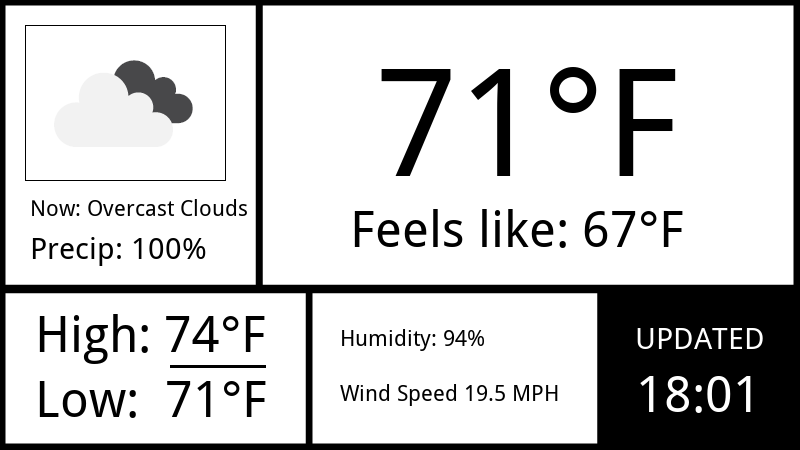
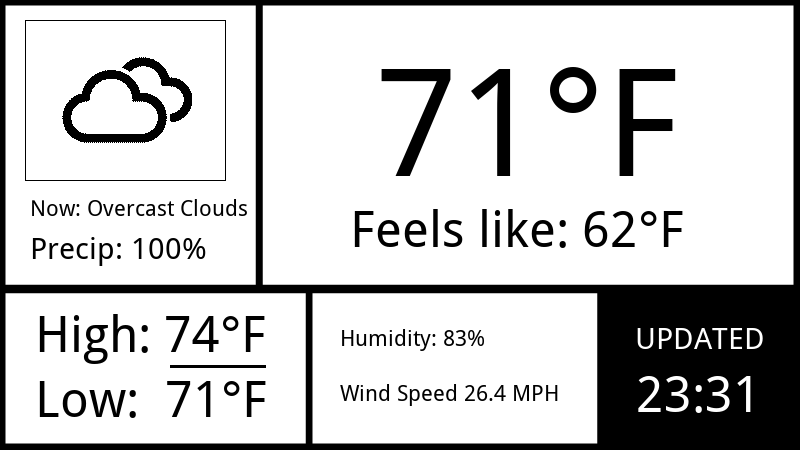
1.1 update
Added new icons

diff --git a/weather.py b/weather.py
@@ -1,10 +1,10 @@
 # This little program is for the Waveshare 7.5
 # inch Version 2 black and white only epaper display
 # It uses OpenWeatherMap API to display weather info
-
 import sys
 import os
 picdir = os.path.join(os.path.dirname(os.path.realpath(__file__)), 'pic')
+icondir = os.path.join(picdir, 'icon')
 fontdir = os.path.join(os.path.dirname(os.path.realpath(__file__)), 'font')
 
 # Search lib folder for display driver modules
@@ -47,25 +47,26 @@ grey = 'rgb(235,235,235)'
 
 # Initiate and clear screen
 epd.init()
-epd.Clear()
+#epd.Clear()
 
-API_KEY = '*****KEY HERE******'
-LOCATION = '******Name of Location*****'
-LATITUDE = '******'
-LONGITUDE = '*********'
+API_KEY = '******API KEY*******'
+LOCATION = '*******'
+LATITUDE = '*******'
+LONGITUDE = '*******'
 UNITS = 'imperial'
 BASE_URL = 'http://api.openweathermap.org/data/2.5/onecall?' 
 URL = BASE_URL + 'lat=' + LATITUDE + '&lon=' + LONGITUDE + '&units=' + UNITS +'&appid=' + API_KEY
 
 while True:
     # HTTP request
+    print('Getting new weather info.')
     response = requests.get(URL)
     # check status of code of request
     
     error = None
     while error == None:
         if response.status_code == 200:
-            print('Connection to Open Weather successful')
+            print('Connection to Open Weather successful.')
             # get data in jason format
             data = response.json()
             
@@ -84,7 +85,7 @@ while True:
             report = weather[0]['description']
             # get icon url
             icon_code = weather[0]['icon']
-            icon_URL = 'http://openweathermap.org/img/wn/'+ icon_code +'@4x.png'
+            #icon_URL = 'http://openweathermap.org/img/wn/'+ icon_code +'@4x.png'
             
             # get daily dict block
             daily = data['daily']
@@ -148,14 +149,14 @@ while True:
     draw = ImageDraw.Draw(template)
     
     # Draw top left box
-    ## First thing is to place the icon image
-    ### Place a grey rectangle
-    draw.rectangle((25, 25, 225, 180), outline=black)
-    ### Place the image
-    response = requests.get(icon_URL)
-    icon_image = Image.open(BytesIO(response.content))
-    template.paste(icon_image, (23, 3), mask=icon_image)
-    # Next is drawing the text
+    ## Open icon file
+    icon_file = icon_code + '.png' 
+    icon_image = Image.open(os.path.join(icondir, icon_file))
+    ### Paste the image
+    template.paste(icon_image, (40, 15))
+    ## Place a black rectangle outline
+    draw.rectangle((25, 20, 225, 180), outline=black)
+    ## Draw text
     draw.text((30, 195), string_report, font=font22, fill=black)
     draw.text((30, 230), string_precip_percent, font=font30, fill=black)
     # Draw top right box
